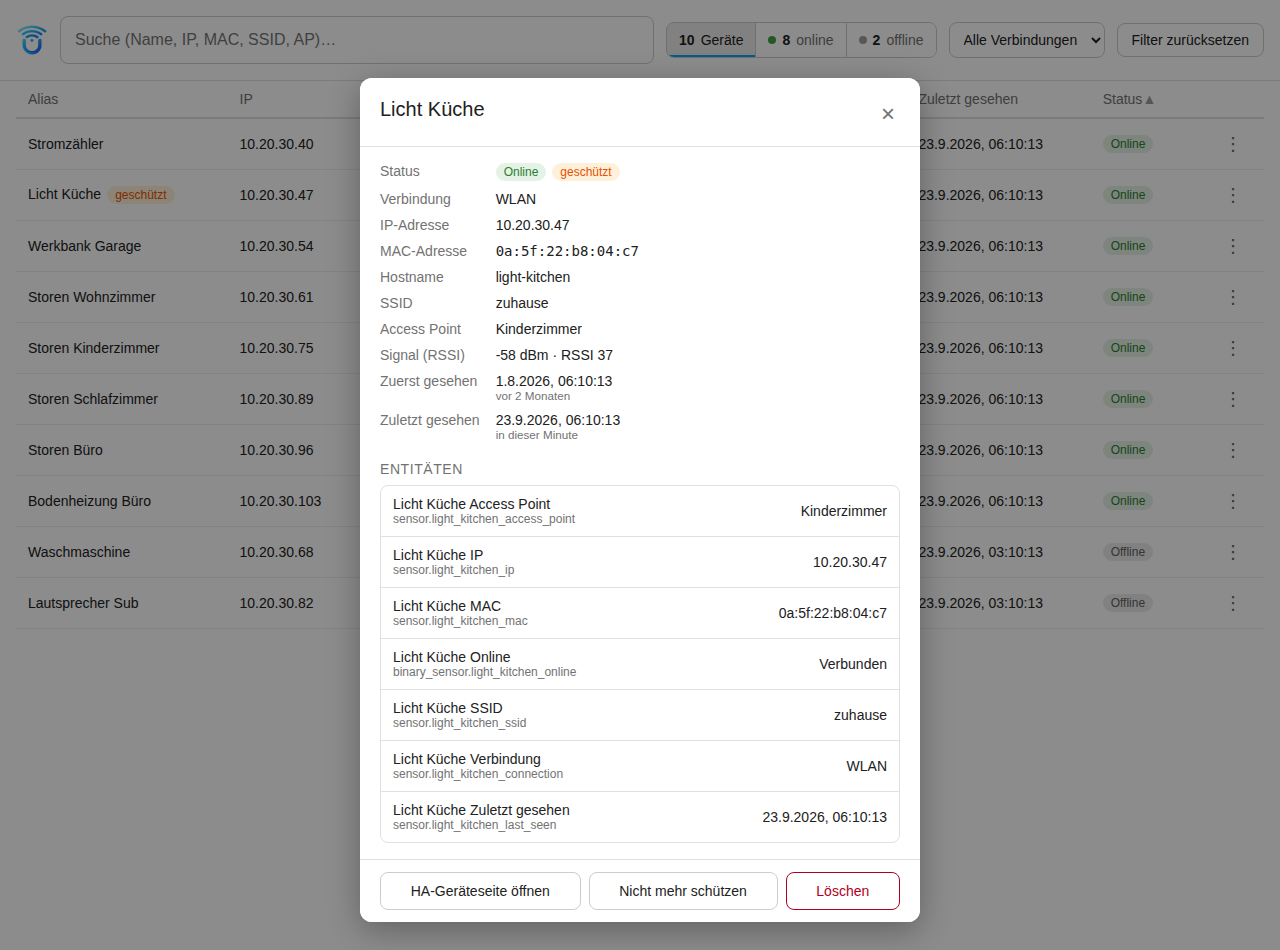
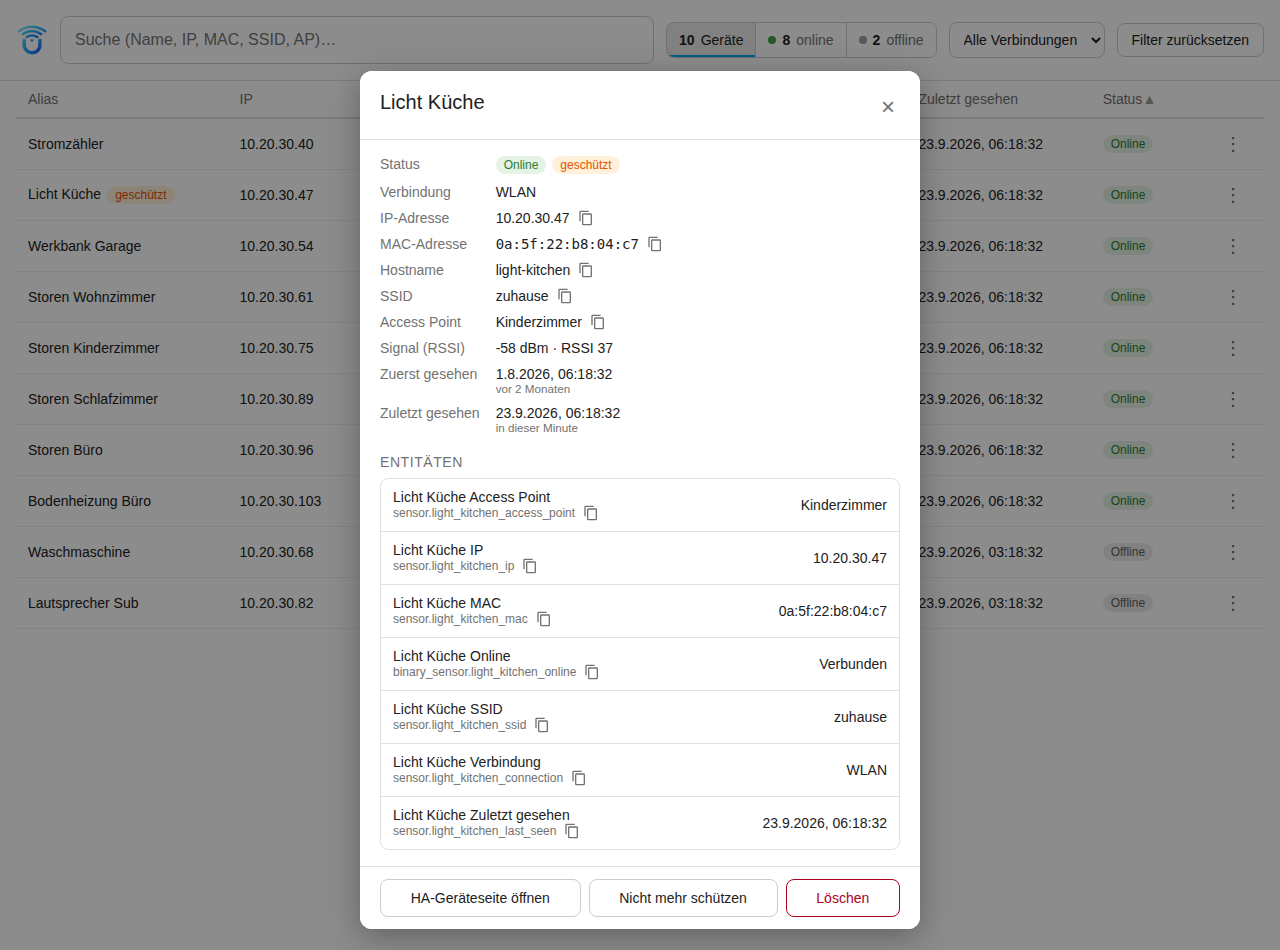
feat: Kopieren-Buttons in der Geräteansicht (v2.1.1)
Claude-Session: https://claude.ai/code/session_01R4WzDvQgfXjNqKYPLvb2xi

diff --git a/custom_components/unifi_dynamic/panel/unifi-dynamic-panel.js b/custom_components/unifi_dynamic/panel/unifi-dynamic-panel.js
@@ -88,6 +88,9 @@ const STRINGS = {
     entitiesNoDevice: "Home Assistant hat für diesen Client noch kein Gerät angelegt.",
     notFound: "Dieser Client ist nicht (mehr) vorhanden.",
     actionFailed: "Aktion fehlgeschlagen:",
+    copy: (what) => `${what} kopieren`,
+    copied: (value) => `Kopiert: ${value}`,
+    copyFailed: "Kopieren nicht möglich - der Browser erlaubt keinen Zugriff auf die Zwischenablage.",
   },
   en: {
     searchPlaceholder: "Search (name, IP, MAC, SSID, AP)…",
@@ -150,6 +153,9 @@ const STRINGS = {
     entitiesNoDevice: "Home Assistant has not created a device for this client yet.",
     notFound: "This client does not exist (anymore).",
     actionFailed: "Action failed:",
+    copy: (what) => `Copy ${what}`,
+    copied: (value) => `Copied: ${value}`,
+    copyFailed: "Could not copy - the browser does not allow access to the clipboard.",
   },
 };
 
@@ -164,6 +170,15 @@ const POLL_INTERVAL_MS = 10000;
 // Zeile: Auf dem Handy stoppt ein Tipp in eine laufende Schwungbewegung nur
 // das Scrollen, er soll nicht zusätzlich die Geräteansicht öffnen.
 const SCROLL_CLICK_GUARD_MS = 300;
+
+// Wie lange ein Kopieren-Button nach dem Kopieren das Häkchen zeigt.
+const COPIED_FEEDBACK_MS = 1500;
+
+// Material Design Icons (mdi:content-copy, mdi:check), inline statt über
+// ha-icon, weil das iframe HAs Komponenten nicht kennt.
+const ICON_COPY =
+  "M19,21H8V7H19M19,5H8A2,2 0 0,0 6,7V21A2,2 0 0,0 8,23H19A2,2 0 0,0 21,21V7A2,2 0 0,0 19,5M16,1H4A2,2 0 0,0 2,3V17H4V3H16V1Z";
+const ICON_CHECK = "M21,7L9,19L3.5,13.5L4.91,12.09L9,16.17L19.59,5.59L21,7Z";
 
 // Derselbe statische Pfad, unter dem __init__.py (_async_register_brand_path)
 // bereits brand/icon.png für die Push-Meldungen ausliefert - hier
@@ -252,6 +267,9 @@ class UnifiDynamicPanel extends HTMLElement {
     this._dialogHtml = "";
     this._dialogError = null;
     this._lastScrollAt = 0;
+    // Wert, dessen Kopieren-Button gerade das Häkchen zeigt.
+    this._copiedValue = null;
+    this._copiedTimer = null;
     this._onParentLocation = () => this._checkDeepLink();
   }
 
@@ -546,6 +564,100 @@ class UnifiDynamicPanel extends HTMLElement {
     }
   }
 
+  _copyButtonHtml(value, label) {
+    const done = this._copiedValue === value;
+    const title = this._escape(this._t("copy")(label));
+    return `<button class="copy-btn${done ? " done" : ""}" data-dlg="copy" data-copy="${this._escape(
+      value
+    )}" title="${title}" aria-label="${title}"><svg viewBox="0 0 24 24" aria-hidden="true"><path d="${
+      done ? ICON_CHECK : ICON_COPY
+    }"></path></svg></button>`;
+  }
+
+  // Kopiert in die Zwischenablage. Reihenfolge der Wege:
+  // 1. Clipboard-API des Elternfensters (HA selbst): nicht von der
+  //    Permissions-Policy des iframes abhängig.
+  // 2. Clipboard-API des iframes.
+  // 3. execCommand("copy") über ein verstecktes Textfeld - nötig, wenn HA
+  //    über http:// statt https:// läuft: Dort gibt es navigator.clipboard
+  //    gar nicht (nur in sicheren Kontexten), execCommand geht trotzdem.
+  async _copy(value) {
+    const text = String(value || "");
+    if (!text) return;
+    let ok = false;
+    const apis = [];
+    try {
+      if (window.parent && window.parent !== window) apis.push(window.parent.navigator.clipboard);
+    } catch (err) {
+      // Anderer Ursprung: nur die eigenen Wege.
+    }
+    apis.push(navigator.clipboard);
+    for (const api of apis) {
+      if (ok || !api || typeof api.writeText !== "function") continue;
+      try {
+        await api.writeText(text);
+        ok = true;
+      } catch (err) {
+        // Nächster Weg.
+      }
+    }
+    if (!ok) ok = this._copyFallback(text);
+
+    this._toast(ok ? this._t("copied")(text) : this._t("copyFailed"));
+    if (!ok) return;
+    this._copiedValue = text;
+    window.clearTimeout(this._copiedTimer);
+    this._copiedTimer = window.setTimeout(() => {
+      this._copiedValue = null;
+      this._renderDialog();
+    }, COPIED_FEEDBACK_MS);
+    this._renderDialog();
+  }
+
+  _copyFallback(text) {
+    // Das Textfeld muss im Dialog liegen: showModal macht alles ausserhalb
+    // inert, dort liesse es sich nicht fokussieren und auswählen.
+    const host =
+      (this.shadowRoot && this.shadowRoot.querySelector("dialog.device[open]")) ||
+      this.shadowRoot ||
+      document.body;
+    const area = document.createElement("textarea");
+    area.value = text;
+    area.setAttribute("readonly", "");
+    area.style.cssText = "position:fixed;top:0;left:0;width:1px;height:1px;opacity:0;";
+    host.appendChild(area);
+    let ok = false;
+    try {
+      area.focus();
+      area.select();
+      area.setSelectionRange(0, text.length);
+      ok = document.execCommand("copy");
+    } catch (err) {
+      ok = false;
+    }
+    area.remove();
+    return ok;
+  }
+
+  // Kurze Rückmeldung als HA-eigene Toast-Meldung unten im Bild (dasselbe
+  // Ereignis, das HA intern nutzt). Ohne HA drumherum bleibt es beim
+  // Häkchen am Button.
+  _toast(message) {
+    try {
+      const ha = (window.parent || window).document.querySelector("home-assistant");
+      if (!ha) return;
+      ha.dispatchEvent(
+        new CustomEvent("hass-notification", {
+          detail: { message },
+          bubbles: true,
+          composed: true,
+        })
+      );
+    } catch (err) {
+      // Keine Toast-Meldung möglich, das Häkchen genügt.
+    }
+  }
+
   _formatRelative(epoch) {
     if (!epoch) return "";
     const diff = epoch - Date.now() / 1000;
@@ -617,17 +729,25 @@ class UnifiDynamicPanel extends HTMLElement {
           ? `${esc(this._formatSeen(epoch))}<small>${esc(this._formatRelative(epoch))}</small>`
           : esc(t("unknown"));
 
+      // Wert mit Kopieren-Button; ohne Wert nur der Strich, ohne Button.
+      const copyable = (label, value, cls = "") =>
+        value
+          ? `<span class="copy-wrap"><span class="${cls}">${esc(value)}</span>${this._copyButtonHtml(
+              value,
+              label
+            )}</span>`
+          : "–";
       const fields = [
         [t("fieldStatus"), `${status}${protectedBadge}`],
         [t("fieldConn"), esc(connText)],
-        [t("fieldIp"), esc(c.ip || "–")],
-        [t("fieldMac"), `<span class="mono">${esc(c.mac)}</span>`],
-        [t("fieldHostname"), esc(c.hostname || "–")],
+        [t("fieldIp"), copyable(t("fieldIp"), c.ip)],
+        [t("fieldMac"), copyable(t("fieldMac"), c.mac, "mono")],
+        [t("fieldHostname"), copyable(t("fieldHostname"), c.hostname)],
       ];
       // WLAN-Felder nur, wenn der Client nicht nachweislich am Kabel hängt.
       if (!c.is_wired) {
-        fields.push([t("fieldSsid"), esc(c.essid || "–")]);
-        fields.push([t("fieldAp"), esc(c.ap_name || "–")]);
+        fields.push([t("fieldSsid"), copyable(t("fieldSsid"), c.essid)]);
+        fields.push([t("fieldAp"), copyable(t("fieldAp"), c.ap_name)]);
         const signal = this._formatSignal(c);
         fields.push([t("fieldSignal"), esc(signal || "–")]);
       }
@@ -643,10 +763,18 @@ class UnifiDynamicPanel extends HTMLElement {
         entitiesHtml = entities.length
           ? `<ul class="entities">${entities
               .map(
-                (e) => `<li><button data-dlg="more-info" data-entity-id="${esc(e.entityId)}">
-                  <span class="ent-name">${esc(e.name)}<small>${esc(e.entityId)}</small></span>
+                // Die ganze Zeile öffnet den Entitäts-Dialog; der Kopieren-
+                // Button liegt darin und gewinnt beim Klick, weil
+                // closest("[data-dlg]") zuerst ihn findet. Eine Zeile als
+                // <button> ginge nicht: Buttons dürfen keine Buttons enthalten.
+                (e) => `<li class="entity" role="button" tabindex="0" data-dlg="more-info" data-entity-id="${esc(
+                  e.entityId
+                )}">
+                  <span class="ent-name">${esc(e.name)}<span class="ent-id"><small>${esc(
+                    e.entityId
+                  )}</small>${this._copyButtonHtml(e.entityId, "Entity-ID")}</span></span>
                   <span class="ent-state">${esc(e.value)}</span>
-                </button></li>`
+                </li>`
               )
               .join("")}</ul>`
           : `<p class="dlg-note">${esc(t("entitiesNone"))}</p>`;
@@ -684,8 +812,8 @@ class UnifiDynamicPanel extends HTMLElement {
     const focusSel =
       active && active.dataset && active.dataset.dlg
         ? `[data-dlg="${active.dataset.dlg}"]${
-            active.dataset.entityId ? `[data-entity-id="${active.dataset.entityId}"]` : ""
-          }`
+            active.dataset.entityId ? `[data-entity-id="${CSS.escape(active.dataset.entityId)}"]` : ""
+          }${active.dataset.copy ? `[data-copy="${CSS.escape(active.dataset.copy)}"]` : ""}`
         : null;
     const scroll = dialog.scrollTop;
     this._dialogHtml = html;
@@ -716,6 +844,10 @@ class UnifiDynamicPanel extends HTMLElement {
     }
     if (action === "more-info") {
       this._openMoreInfo(btn.dataset.entityId);
+      return;
+    }
+    if (action === "copy") {
+      this._copy(btn.dataset.copy);
       return;
     }
     const c = this._clientByKey(this._dialogKey);
@@ -1307,32 +1439,78 @@ class UnifiDynamicPanel extends HTMLElement {
         .entities li + li {
           border-top: 1px solid var(--divider-color, #e0e0e0);
         }
-        .entities button {
+        .entities li.entity {
           display: flex;
           align-items: center;
           justify-content: space-between;
           gap: 12px;
+          box-sizing: border-box;
           width: 100%;
           padding: 10px 12px;
-          border: none;
-          background: none;
-          color: inherit;
-          font: inherit;
           font-size: 14px;
-          text-align: left;
           cursor: pointer;
         }
-        .entities button:hover {
+        .entities li.entity:hover {
           background: var(--secondary-background-color, rgba(0,0,0,0.06));
         }
         .ent-name {
           min-width: 0;
           overflow-wrap: anywhere;
         }
-        .ent-name small {
-          display: block;
+        .entities li.entity:focus-visible {
+          outline: 2px solid var(--primary-color, #03a9f4);
+          outline-offset: -2px;
+        }
+        .ent-id {
+          display: flex;
+          align-items: center;
+          gap: 2px;
+          min-width: 0;
+        }
+        .ent-id small {
+          min-width: 0;
           color: var(--secondary-text-color, #727272);
           font-size: 12px;
+          overflow-wrap: anywhere;
+        }
+        .copy-wrap {
+          display: inline-flex;
+          align-items: center;
+          gap: 2px;
+          max-width: 100%;
+        }
+        .copy-wrap > span {
+          min-width: 0;
+          overflow-wrap: anywhere;
+        }
+        /* Kleiner Icon-Button, aber mit ausreichend grosser Trefferfläche
+           für den Finger (negativer Rand gleicht das Polster optisch aus). */
+        .copy-btn {
+          flex: 0 0 auto;
+          display: inline-flex;
+          align-items: center;
+          justify-content: center;
+          width: 28px;
+          height: 28px;
+          margin: -6px 0;
+          padding: 0;
+          border: none;
+          border-radius: 50%;
+          background: none;
+          color: var(--secondary-text-color, #727272);
+          cursor: pointer;
+        }
+        .copy-btn svg {
+          width: 16px;
+          height: 16px;
+          fill: currentColor;
+        }
+        .copy-btn:hover {
+          background: var(--secondary-background-color, rgba(0,0,0,0.08));
+          color: var(--primary-text-color, #212121);
+        }
+        .copy-btn.done {
+          color: var(--success-color, #43a047);
         }
         .ent-state {
           flex: 0 0 auto;
@@ -1577,6 +1755,14 @@ class UnifiDynamicPanel extends HTMLElement {
 
     const dialog = this.shadowRoot.querySelector("dialog.device");
     dialog.addEventListener("click", (ev) => this._handleDialogClick(ev));
+    // Entitätszeilen sind keine echten Buttons (siehe _renderDialog), also
+    // Enter/Leertaste selbst in einen Klick übersetzen.
+    dialog.addEventListener("keydown", (ev) => {
+      if (ev.key !== "Enter" && ev.key !== " ") return;
+      if (!ev.target.matches || !ev.target.matches("li.entity")) return;
+      ev.preventDefault();
+      ev.target.click();
+    });
     // Esc schliesst den Dialog nativ; hier nur den Zustand nachziehen.
     dialog.addEventListener("close", () => {
       this._dialogKey = null;

diff --git a/custom_components/unifi_dynamic/const.py b/custom_components/unifi_dynamic/const.py
@@ -187,7 +187,7 @@ PANEL_STATIC_URL_PATH = f"{STATIC_URL_PATH}/panel"
 # Versionsstempel als Cache-Buster an der Seiten-URL; panel.html reicht ihn
 # an den Import der JS-Datei weiter. Wird bei jeder Änderung an panel.html
 # oder am Panel-JS von Hand erhöht, unabhängig von der Integrationsversion.
-PANEL_VERSION = "15"
+PANEL_VERSION = "16"
 PANEL_PAGE_URL = f"{PANEL_STATIC_URL_PATH}/{PANEL_HTML_FILE}?v={PANEL_VERSION}"
 
 DATA_PANEL_REGISTERED = "unifi_dynamic_panel_registered"

diff --git a/CHANGELOG.md b/CHANGELOG.md
@@ -5,6 +5,24 @@ All notable changes to this integration are documented in this file.
 The format is based on [Keep a Changelog](https://keepachangelog.com/en/1.1.0/),
 and this project adheres to [Semantic Versioning](https://semver.org/).
 
+## [2.1.1] - 2026-09-23
+
+### Added
+
+- Copy buttons in the device view: IP, MAC, hostname, SSID and access point
+  each get a small button that copies just that value, and every entity gets
+  one next to its entity ID that copies only the ID. The icon briefly turns
+  into a check mark and Home Assistant shows a short "Copied: …" toast.
+  Works on plain `http://` too, where browsers don't provide the clipboard
+  API, by falling back to the browser's legacy copy command.
+
+### Changed
+
+- An entity row in the device view still opens Home Assistant's entity
+  dialog on click, and now also with Enter or Space when focused via
+  keyboard.
+- README device-view screenshots re-rendered with the copy buttons.
+
 ## [2.1.0] - 2026-09-23
 
 ### Added
@@ -822,6 +840,7 @@ First version published on GitHub.
 - SSID and access point sensors only for clients ever seen on wireless.
   Existing entities of wired-only clients are cleaned up at startup.
 
+[2.1.1]: https://github.com/Diegofuego871/unifi_dynamic/releases/tag/v2.1.1
 [2.1.0]: https://github.com/Diegofuego871/unifi_dynamic/releases/tag/v2.1.0
 [2.0.14]: https://github.com/Diegofuego871/unifi_dynamic/releases/tag/v2.0.14
 [2.0.13]: https://github.com/Diegofuego871/unifi_dynamic/releases/tag/v2.0.13

diff --git a/README.de.md b/README.de.md
@@ -207,6 +207,14 @@ Nach erfolgreichem Löschen schliesst sich der Dialog von selbst; schlägt eine
 Aktion fehl, steht der Fehler im Dialog. Esc, der ×-Button oder ein Klick
 neben den Dialog schliessen ihn. Kabel-Clients zeigen die WLAN-Felder nicht.
 
+Neben IP, MAC, Hostname, SSID, Access Point und jeder Entity-ID steht ein
+kleiner Kopieren-Button, der genau diesen Wert in die Zwischenablage legt —
+bei einer Entität nur ihre ID, etwa `sensor.unifi_dynamic_…_connection`. Das
+Symbol wird kurz zum Häkchen, und Home Assistant zeigt unten kurz „Kopiert:
+…". Das Kopieren klappt auch, wenn Home Assistant über reines `http://`
+erreichbar ist, wo Browser die Zwischenablage-Schnittstelle nicht anbieten:
+Das Panel weicht dann auf den älteren Kopierbefehl des Browsers aus.
+
 „Zuerst gesehen" stammt aus dem Feld `first_seen` des Controllers und reicht
 damit auch vor die Installation zurück. Liefert der Controller es nicht,
 nimmt die Integration den Zeitpunkt, zu dem sie den Client selbst zum ersten

diff --git a/README.md b/README.md
@@ -200,6 +200,14 @@ itself; if an action fails, the error shows inside the dialog. Esc, the ×
 button or a click next to the dialog close it. Wired clients don't show the
 wireless fields.
 
+IP, MAC, hostname, SSID, access point and each entity ID have a small copy
+button next to them that puts exactly that value on the clipboard — for an
+entity only its ID, for example `sensor.unifi_dynamic_…_connection`. The
+icon turns into a check mark for a moment and Home Assistant shows a short
+"Copied: …" message at the bottom. Copying also works when Home Assistant is
+reached over plain `http://`, where browsers don't offer the clipboard API:
+the panel then falls back to the browser's older copy command.
+
 "First seen" comes from the controller's own `first_seen` field, so it also
 covers clients from before the installation. If the controller doesn't
 supply it, the integration uses the time it first saw the client itself —
